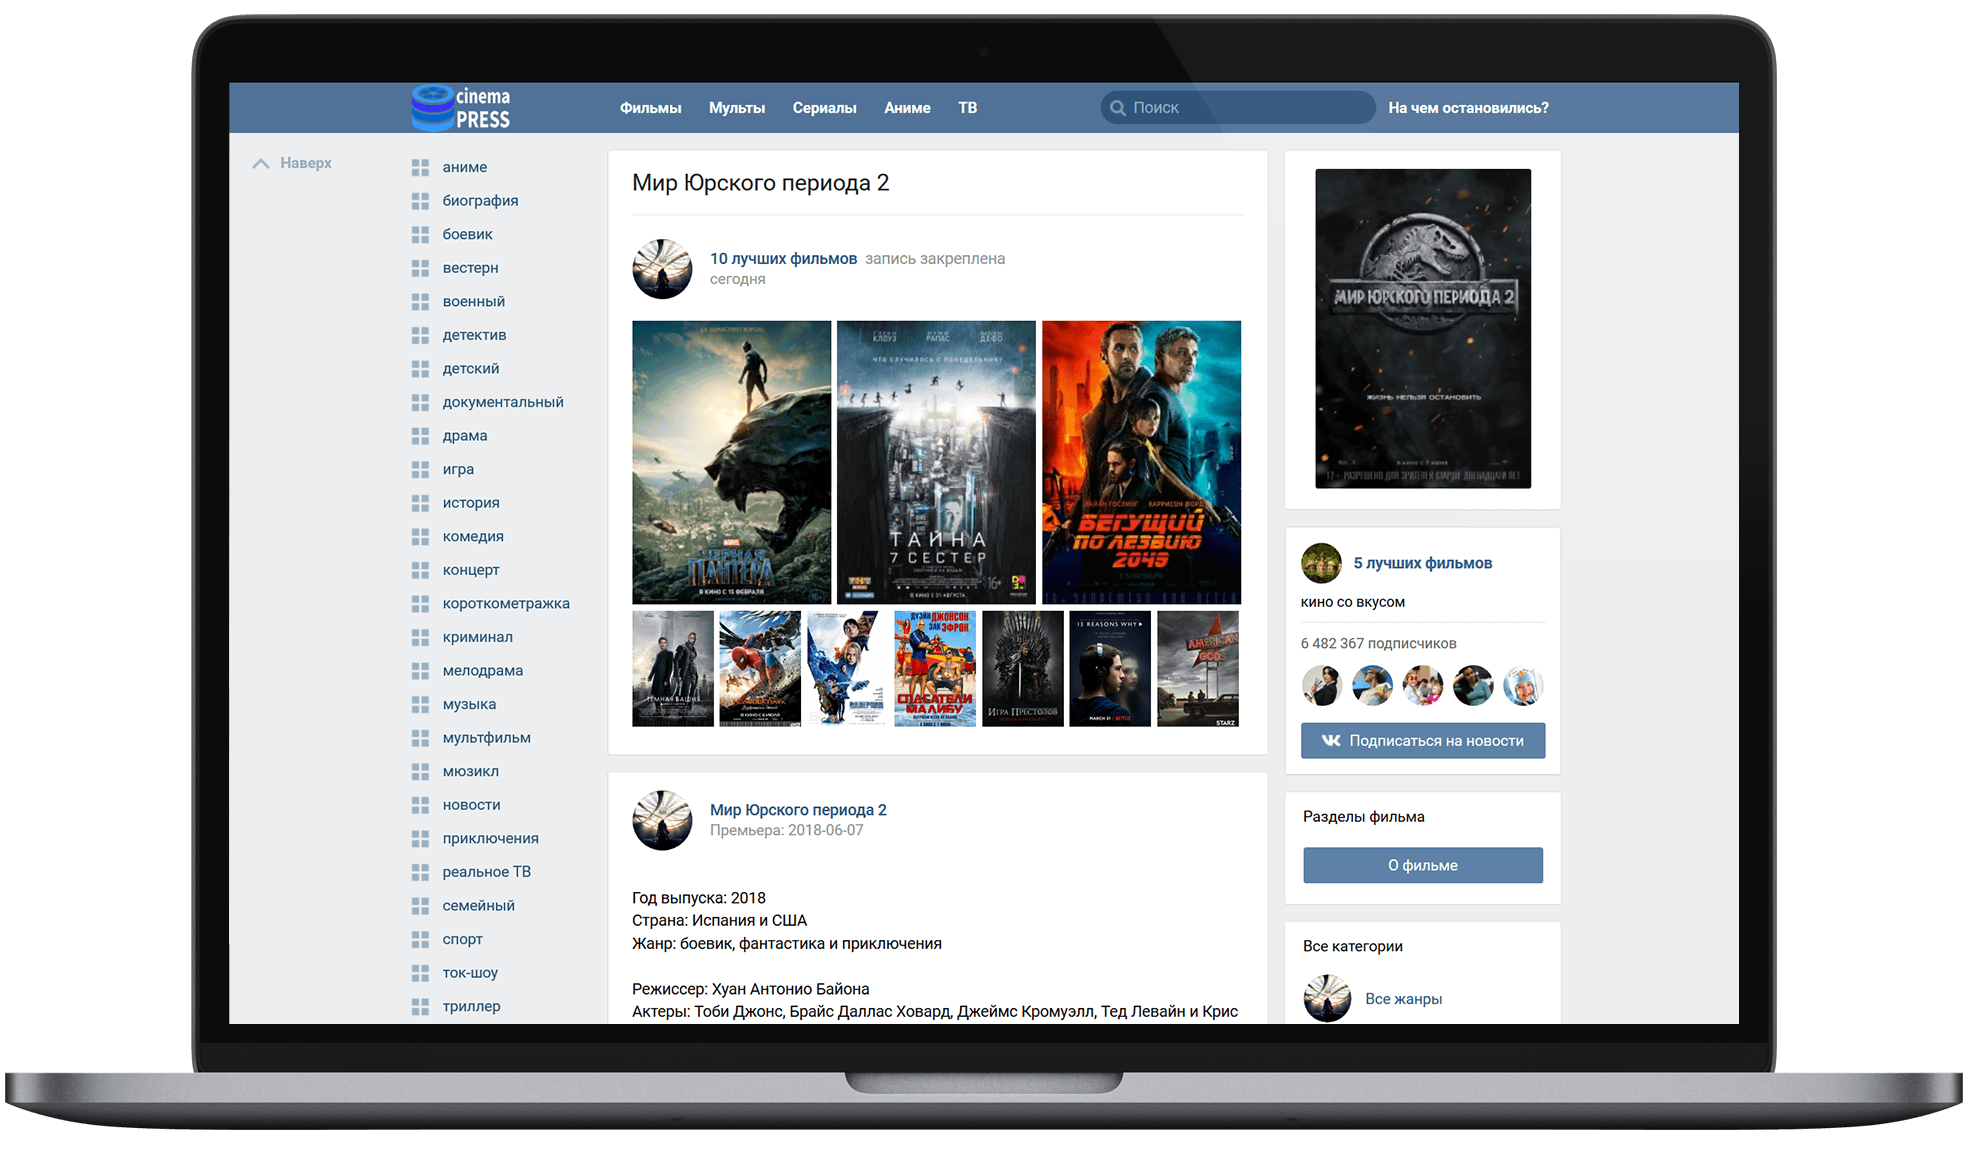
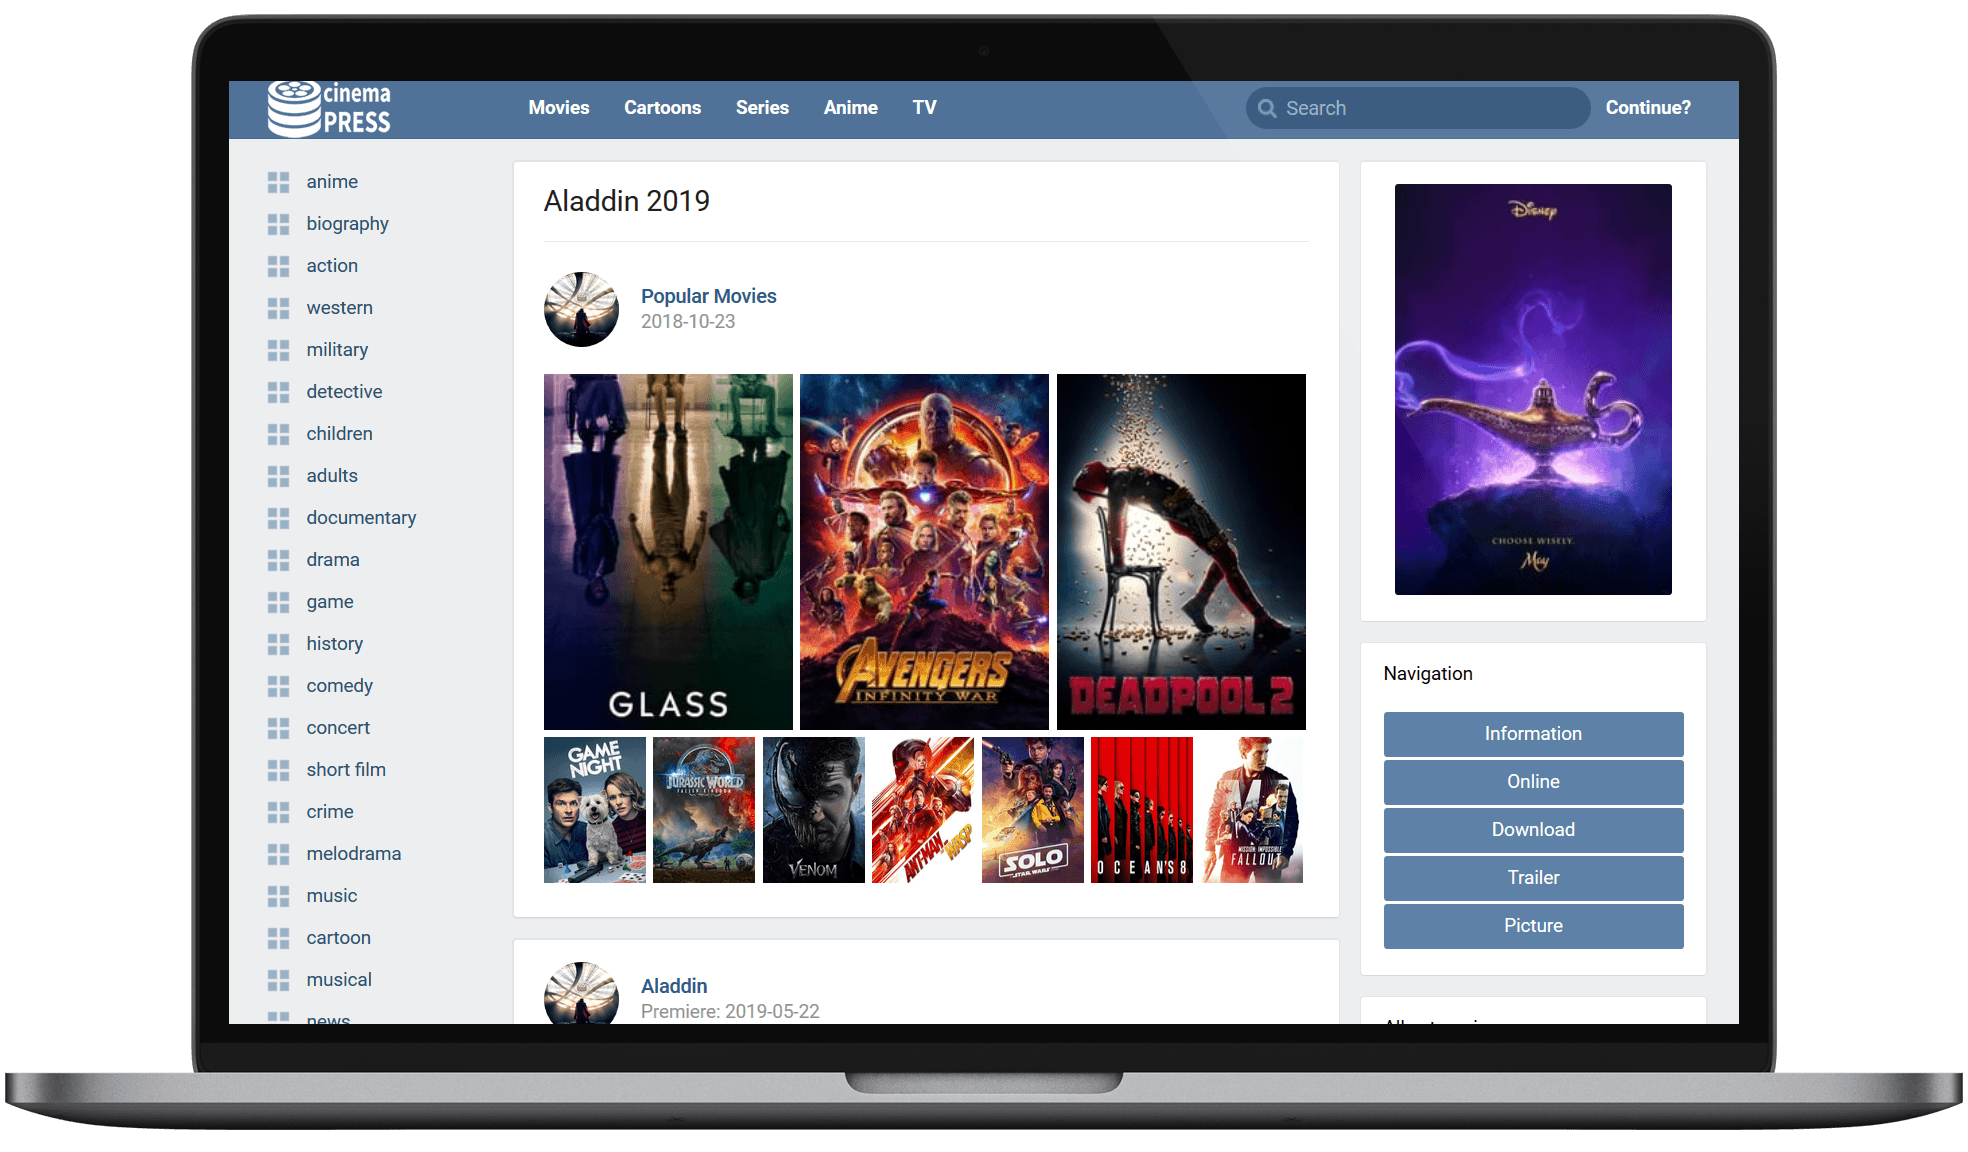
Add translate, new scr

diff --git a/README.md b/README.md
@@ -1,18 +1,29 @@
-# Шаблон «joffrey»
+# Theme «joffrey»
 
-![Шаблон «joffrey» для CinemaPress ACMS](https://raw.githubusercontent.com/CinemaPress/Theme-Joffrey/master/screenshot.png "Шаблон «joffrey» для CinemaPress ACMS")
+![Theme «joffrey» for CinemaPress ACMS](https://raw.githubusercontent.com/CinemaPress/Theme-Joffrey/master/screenshot.png "Theme «joffrey» for CinemaPress ACMS")
 
-:art: Шаблон «joffrey» для CinemaPress ACMS
+:art: Theme «joffrey» for CinemaPress ACMS
 
 - [Joffrey.CinemaPress.org](http://Joffrey.CinemaPress.org/)
 
-## Установка
+## How to install?
+1. Download [GitHub](https://github.com/CinemaPress/Theme-Joffrey/archive/master.zip) or [GitLab](https://gitlab.com/CinemaPress/Theme-Joffrey/repository/archive.zip) or [BitBucket](https://bitbucket.org/cinemapress/theme-joffrey/get/master.zip) or [Coding](https://coding.net/u/CinemaPress/p/Theme-Joffrey/git/archive/master.zip)
+2. Unpack the archive and rename the folder to **joffrey**
+3. Folder **joffrey** send to server in folder **themes**
+4. Change the name of the theme in the admin panel to **joffrey**
+
+## Installation via terminal
+```
+~# wget cinemapress.org/i -qO i && chmod +x i && ./i 3
+```
+
+## Как установить?
 1. Скачать архив с [GitHub](https://github.com/CinemaPress/Theme-Joffrey/archive/master.zip) или [GitLab](https://gitlab.com/CinemaPress/Theme-Joffrey/repository/archive.zip) или [BitBucket](https://bitbucket.org/cinemapress/theme-joffrey/get/master.zip) или [Coding](https://coding.net/u/CinemaPress/p/Theme-Joffrey/git/archive/master.zip)
 2. Распаковать архив и переименовать папку в **joffrey**
 3. Папку **joffrey** отправить на сервер в папку **themes**
 4. Изменить название темы в админ-панели на **joffrey**
 
-## Установка через установщик тем CinemaPress ACMS
+## Установка через терминал
 ```
 ~# wget cinemapress.org/i -qO i && chmod +x i && ./i 3
 ```
